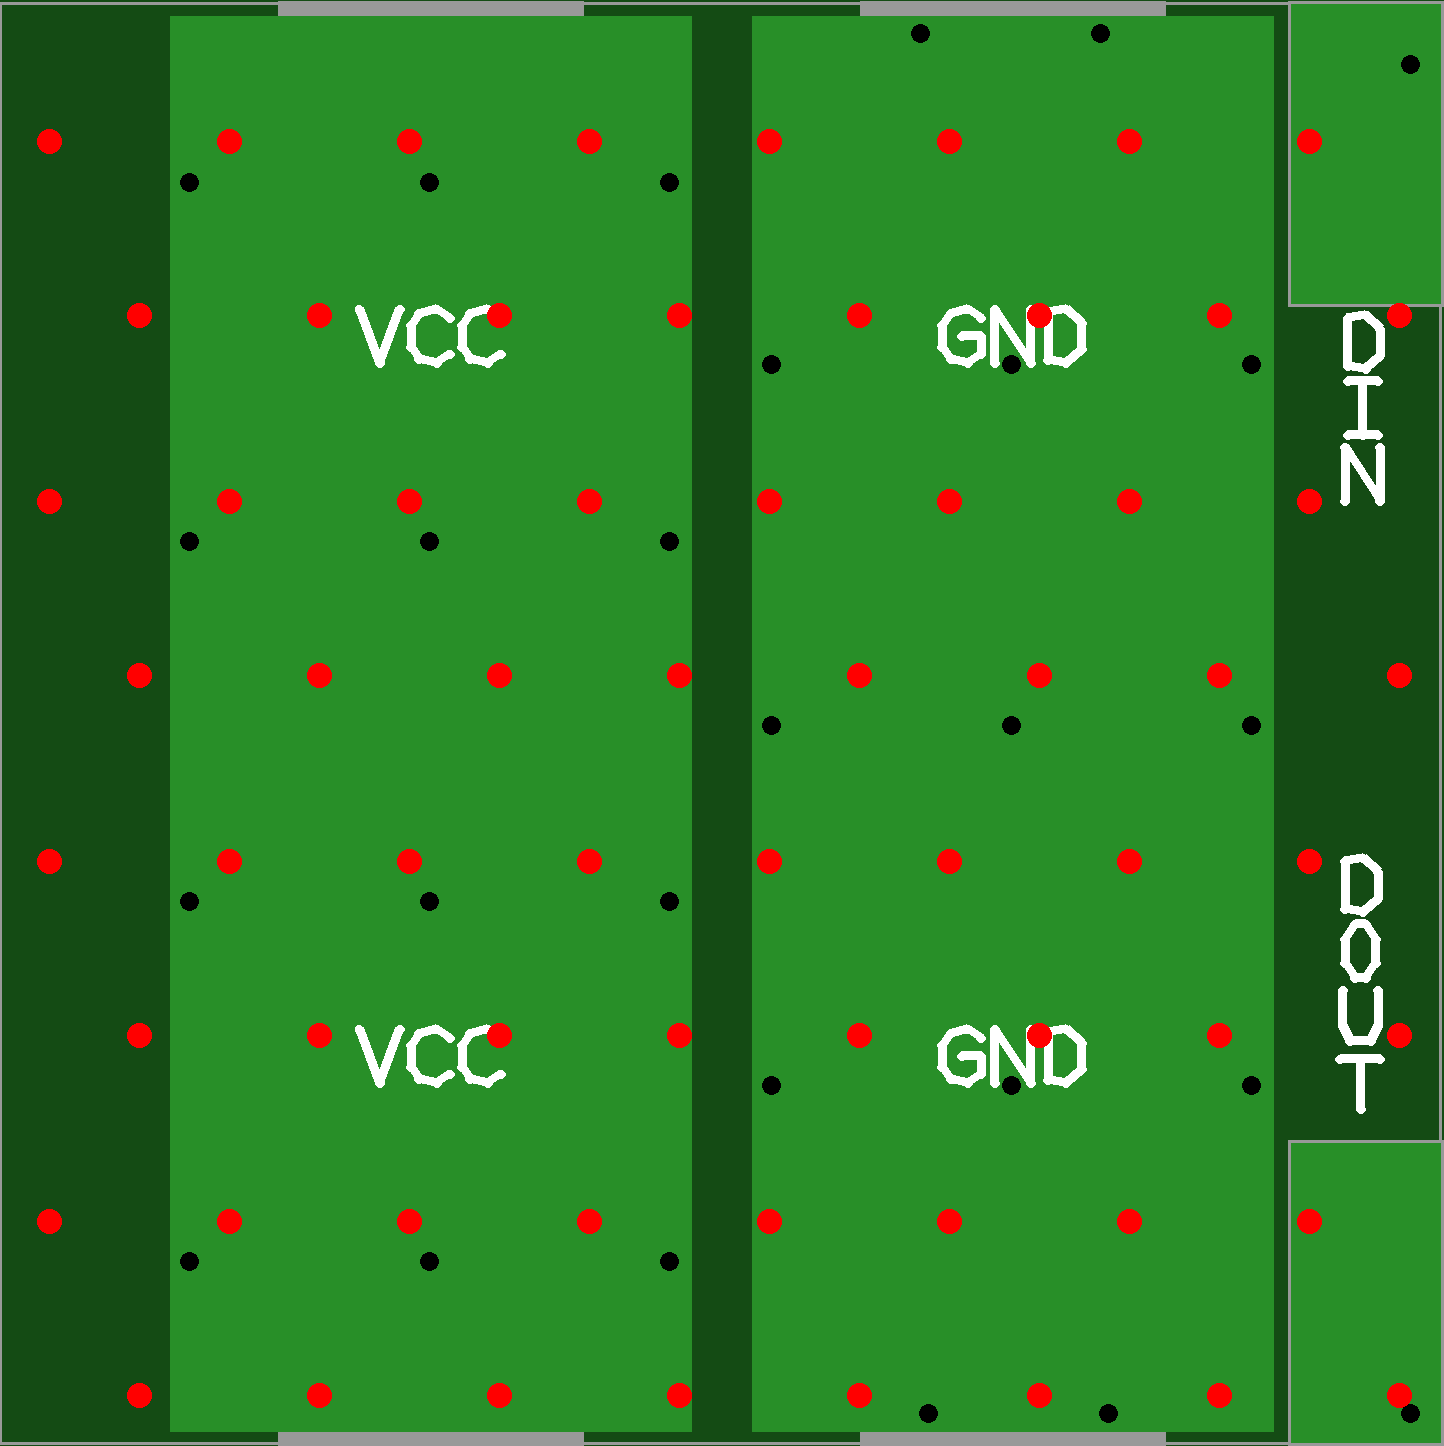
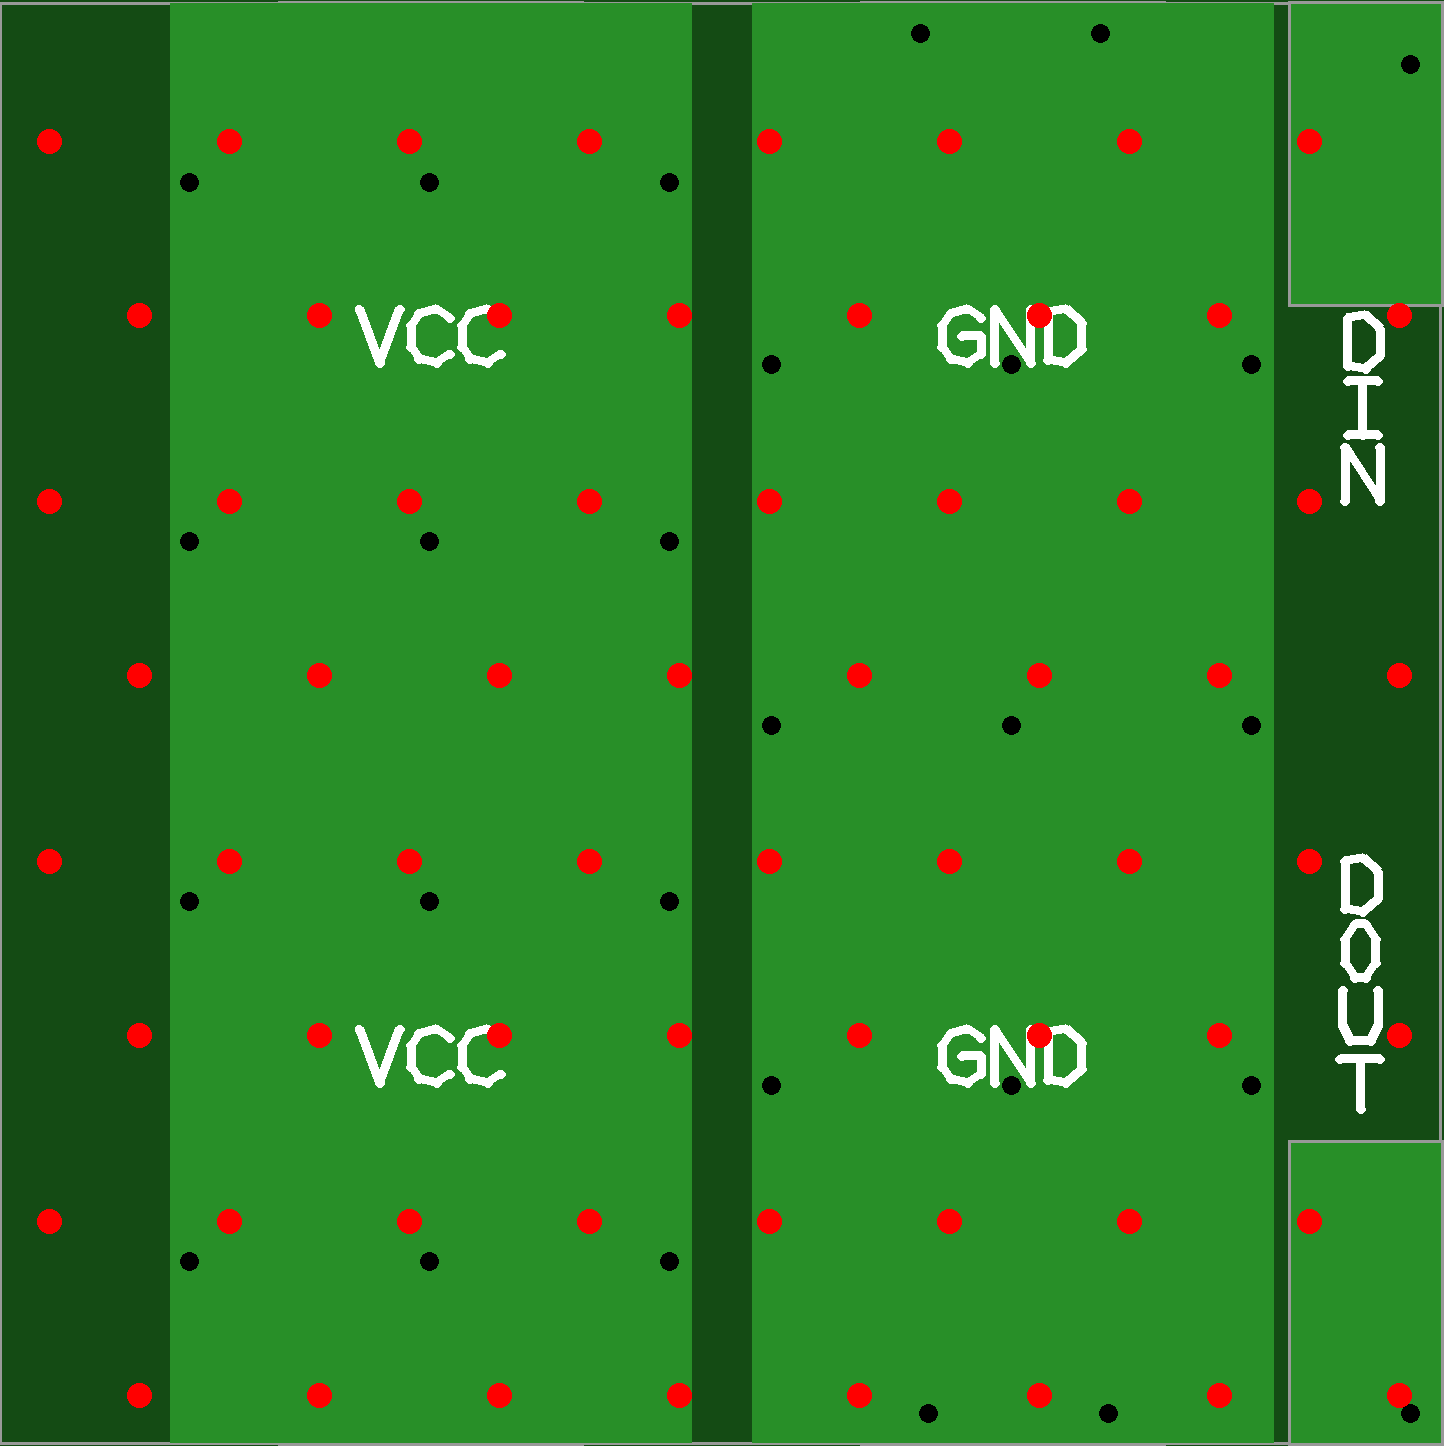
docs example: v15 (Rails randbuendig)

Changed region(s): [[0.0935, 0.9647, 0.9037, 1.0], [0.1247, 0.0, 0.4986, 0.0311], [0.5298, 0.0, 0.8726, 0.0311]]

diff --git a/docs/example_8x8/README.md b/docs/example_8x8/README.md
@@ -13,7 +13,7 @@ WS2812B-kompatibel). Ergebnis: **24 × 24 mm** Platinen, nahtlos kachelbar.
 ```bash
 python src/fetch_component.py C41413180        # Footprint laden (einmalig)
 python src/generate.py --cols 8 --rows 8 --pitch 3.0 --lcsc C41413180 \
-    --output output/XL-1615_8x8_v14.zip
+    --output output/XL-1615_8x8_v15.zip
 ```
 
 oder mit dieser Config: [`cfg/XL-1615_8x8.cfg`](../../cfg/XL-1615_8x8.cfg)
@@ -32,7 +32,7 @@ oder mit dieser Config: [`cfg/XL-1615_8x8.cfg`](../../cfg/XL-1615_8x8.cfg)
 
 | Datei | Beschreibung |
 |---|---|
-| [`XL-1615_8x8_v14.zip`](XL-1615_8x8_v14.zip) | Fertigungsdaten (Gerber + Drill + BOM + CPL), direkt bei JLCPCB hochladbar |
+| [`XL-1615_8x8_v15.zip`](XL-1615_8x8_v15.zip) | Fertigungsdaten (Gerber + Drill + BOM + CPL), direkt bei JLCPCB hochladbar |
 | [`render_front.png`](render_front.png) | Eigener PNG-Render, Vorderseite (LED-Pads, Datenkette, Reihenschienen) |
 | [`render_back.png`](render_back.png) | Eigener PNG-Render, Rückseite (mittige GND/VCC-Rails, Anschlusspads, Beschriftung) |
 | [`jlcpcb_preview_top.png`](jlcpcb_preview_top.png) | 2D-Preview aus dem JLCPCB-Viewer, Oberseite |
@@ -41,7 +41,7 @@ oder mit dieser Config: [`cfg/XL-1615_8x8.cfg`](../../cfg/XL-1615_8x8.cfg)
 > [!NOTE]
 > Die JLCPCB-Viewer-Bilder stammen noch von Revision v13 (damals volle
 > Schienenbreite, andere Rand-Via-Position). Der ZIP und die eigenen Renders
-> zeigen die aktuelle Revision v14 (strombasierte Schienen, Strom-basierte
+> zeigen die aktuelle Revision v15 (strombasierte Schienen, Strom-basierte
 > Stitch-Vias).
 
 ## Was man sieht
